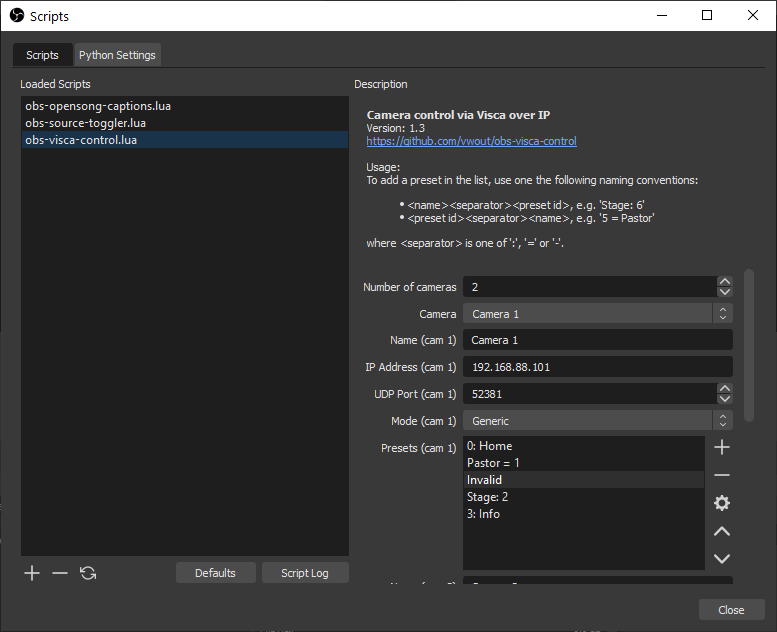
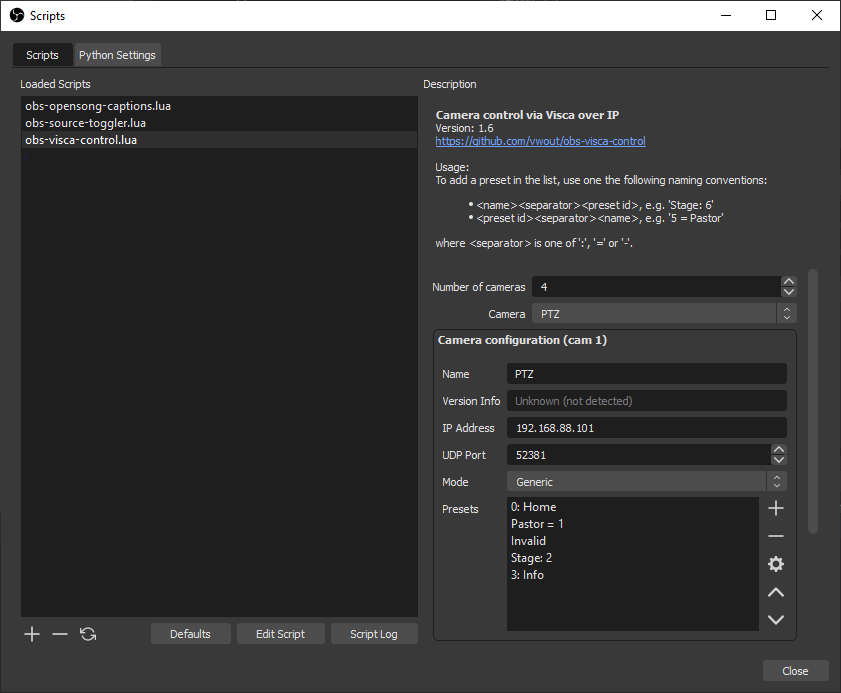
Update documentation (#4)

diff --git a/README.md b/README.md
@@ -9,6 +9,7 @@ Besides recalling a pre-made preset, this plugin supports a few more control ope
 - Switch camera On
 - Switch camera Off
 - Preset Recall
+- Set the camera to a defined (absolute) Pan/Tilt/Zoom position
 - Zoom (Stop, In - Tele, Out - Wide, Direct)
 - Pan/Tilt (Up, Down, Left, Right, Upleft, Upright, Downleft, Downright, Stop, Home, Reset)
 - Focus (Manual mode, Automatic mode, Trigger refocus, To infinity, Near, Far)
@@ -38,11 +39,12 @@ Before the plugin can be used in a scene, it requires configuration in the `Scri
 
 Start by enumerating the number of cameras cameras that you want to control.
 For each camera a set of configuration properties will be shown:
-- _Name_: A friendly name for easy recognition of the camera
+- _Name_: A friendly name for easy recognition of the camera.
+- _Version Info_: The model, type and firmware (in case available and supported).
 - _Address_: The IP address at which the camera is available.
 - _Port_: The plugin by default uses _UDP_ port `52381`. Change this port when needed, e.g. to `1259` for a PTZOptics camera.
 - _Mode_: The operating mode of the plugin. The default is `Generic`, which follows the original (Sony) Visca specification. Other supported modes are `PTZOptics`, to send commands according the PTZOptics Visca protocol.
-- _Presets_: The list of presets that you want to configure for the camera
+- _Presets_: The list of presets that you want to configure for the camera - these need to match the presets that are configured in the camera itself.
 
 **Important: Reload the script after changing the address, port of mode configuration!**
 
@@ -65,9 +67,11 @@ To control a camera, add a `Visca Camera Control` source to a scene.
 In the source settings, select the camera and the action that should be executed.
 - _Camera_: The camera configured in the plugin (see [configuration](#configuration))
 - _Action_: Select the action that needs to be executed
+  - When a camera supports standby mode, Power On/Off can be used in a scene to activated or suspend te camera.
   - When the action 'Preset Recall' is chosen, the preset also needs to be chosen.
   These presets need to be configured per camera in the script settings, see [configuration](#configuration).
-  - For the action 'Pan/Tilt', the direction and speed also needs to be selected. 
+  - To not recall a predefined preset, but set the camera to an absolute position, choose 'Pan/Tilt/Zoom Absolute position' and retrieve the current position of the camera to be recalled later by pressing the button.
+  - For the action 'Pan/Tilt Direction', the camera will move in the configured direction. The direction and speed also needs to be selected. 
   Note that this action does not use a specific starting position, the pan action starts from the camera position that is actual when the scene becomes active.
   - For 'Zoom In' and 'Zoom Out', the animation speeds determines the zoom speed.
 - _Action Active_: The camera action is executed when either the scene in which the source is used becomes active in preview, in program, or both, depending on the selected entry in the selection.
